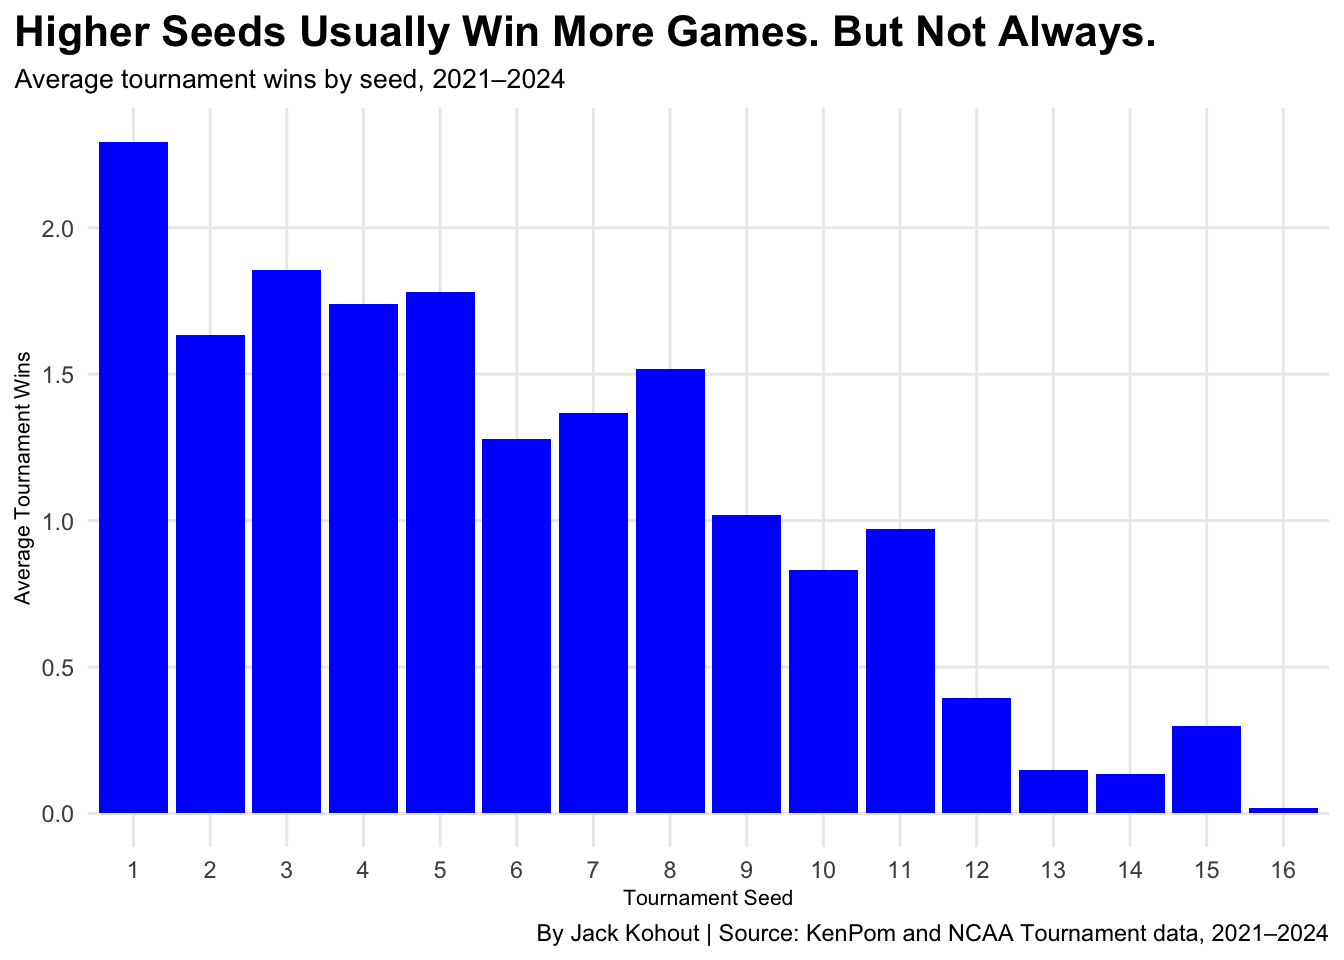
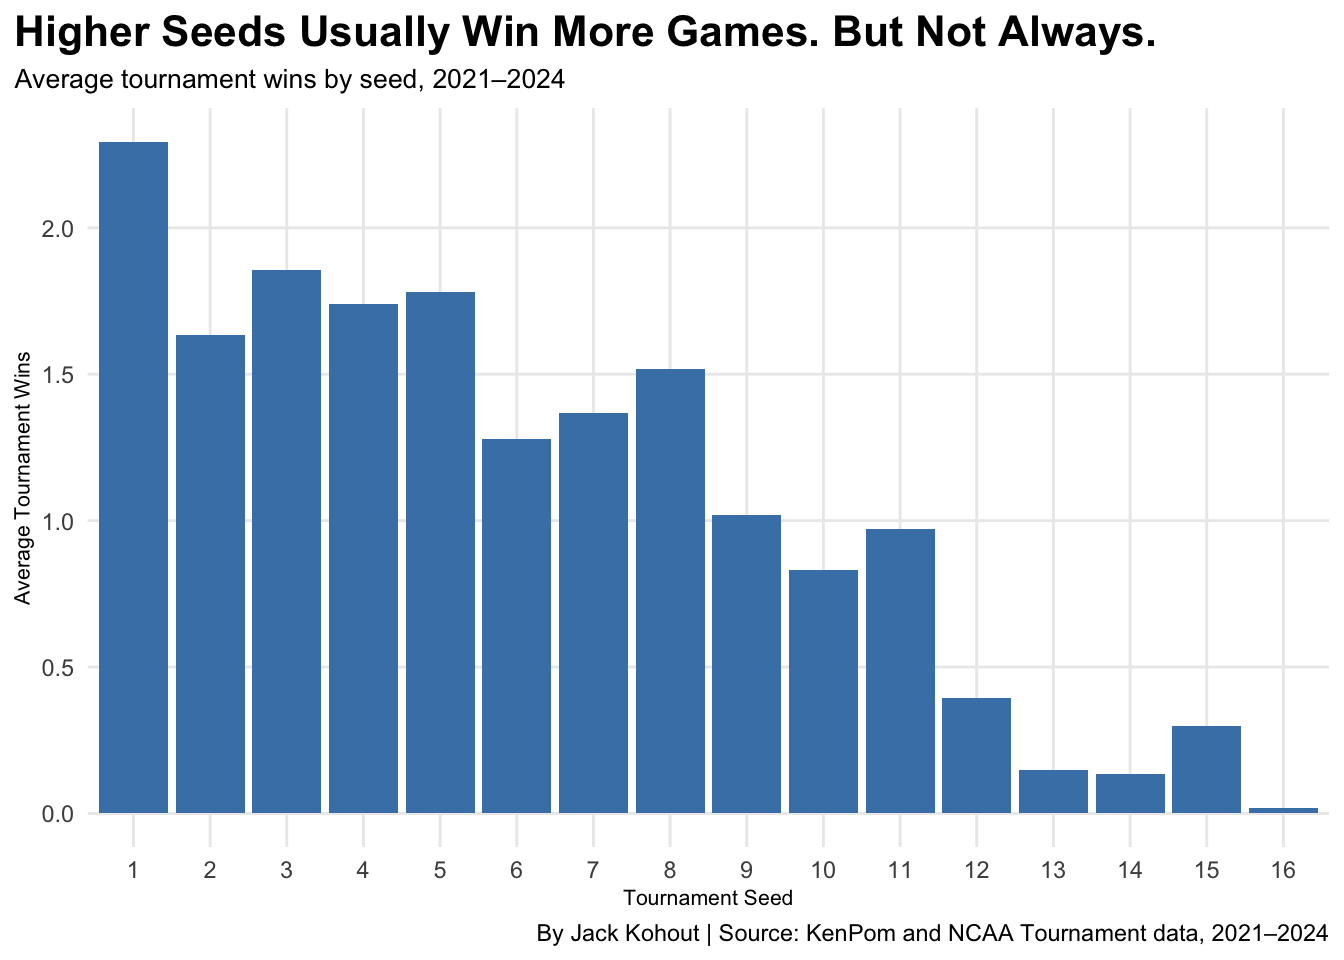
Final Change

Changed region(s): [[0.0625, 0.125, 0.9375, 0.8438]]

diff --git a/posts/NCAA-Basketball-March-Madness-Trends/index.html b/posts/NCAA-Basketball-March-Madness-Trends/index.html
@@ -269,23 +269,23 @@ pre > code.sourceCode > span > a:first-child::before { text-decoration: underlin
 <span id="cb2-55"><a href="#cb2-55" aria-hidden="true" tabindex="-1"></a>  )</span></code></pre></div><button title="Copy to Clipboard" class="code-copy-button"><i class="bi"></i></button></div>
 </details>
 <div class="cell-output-display">
-<div id="ajfexmtldr" style="padding-left:0px;padding-right:0px;padding-top:10px;padding-bottom:10px;overflow-x:auto;overflow-y:auto;width:auto;height:auto;">
-<style>#ajfexmtldr table {
+<div id="mxnhyphddv" style="padding-left:0px;padding-right:0px;padding-top:10px;padding-bottom:10px;overflow-x:auto;overflow-y:auto;width:auto;height:auto;">
+<style>#mxnhyphddv table {
   font-family: system-ui, 'Segoe UI', Roboto, Helvetica, Arial, sans-serif, 'Apple Color Emoji', 'Segoe UI Emoji', 'Segoe UI Symbol', 'Noto Color Emoji';
   -webkit-font-smoothing: antialiased;
   -moz-osx-font-smoothing: grayscale;
 }
 
-#ajfexmtldr thead, #ajfexmtldr tbody, #ajfexmtldr tfoot, #ajfexmtldr tr, #ajfexmtldr td, #ajfexmtldr th {
+#mxnhyphddv thead, #mxnhyphddv tbody, #mxnhyphddv tfoot, #mxnhyphddv tr, #mxnhyphddv td, #mxnhyphddv th {
   border-style: none;
 }
 
-#ajfexmtldr p {
+#mxnhyphddv p {
   margin: 0;
   padding: 0;
 }
 
-#ajfexmtldr .gt_table {
+#mxnhyphddv .gt_table {
   display: table;
   border-collapse: collapse;
   line-height: normal;
@@ -311,12 +311,12 @@ pre > code.sourceCode > span > a:first-child::before { text-decoration: underlin
   border-left-color: #D3D3D3;
 }
 
-#ajfexmtldr .gt_caption {
+#mxnhyphddv .gt_caption {
   padding-top: 4px;
   padding-bottom: 4px;
 }
 
-#ajfexmtldr .gt_title {
+#mxnhyphddv .gt_title {
   color: #333333;
   font-size: 125%;
   font-weight: initial;
@@ -328,7 +328,7 @@ pre > code.sourceCode > span > a:first-child::before { text-decoration: underlin
   border-bottom-width: 0;
 }
 
-#ajfexmtldr .gt_subtitle {
+#mxnhyphddv .gt_subtitle {
   color: #333333;
   font-size: 85%;
   font-weight: initial;
@@ -340,7 +340,7 @@ pre > code.sourceCode > span > a:first-child::before { text-decoration: underlin
   border-top-width: 0;
 }
 
-#ajfexmtldr .gt_heading {
+#mxnhyphddv .gt_heading {
   background-color: #FFFFFF;
   text-align: center;
   border-bottom-color: #FFFFFF;
@@ -352,13 +352,13 @@ pre > code.sourceCode > span > a:first-child::before { text-decoration: underlin
   border-right-color: #D3D3D3;
 }
 
-#ajfexmtldr .gt_bottom_border {
+#mxnhyphddv .gt_bottom_border {
   border-bottom-style: none;
   border-bottom-width: 2px;
   border-bottom-color: #D3D3D3;
 }
 
-#ajfexmtldr .gt_col_headings {
+#mxnhyphddv .gt_col_headings {
   border-top-style: none;
   border-top-width: 2px;
   border-top-color: #D3D3D3;
@@ -373,7 +373,7 @@ pre > code.sourceCode > span > a:first-child::before { text-decoration: underlin
   border-right-color: #D3D3D3;
 }
 
-#ajfexmtldr .gt_col_heading {
+#mxnhyphddv .gt_col_heading {
   color: #333333;
   background-color: #FFFFFF;
   font-size: 100%;
@@ -393,7 +393,7 @@ pre > code.sourceCode > span > a:first-child::before { text-decoration: underlin
   overflow-x: hidden;
 }
 
-#ajfexmtldr .gt_column_spanner_outer {
+#mxnhyphddv .gt_column_spanner_outer {
   color: #333333;
   background-color: #FFFFFF;
   font-size: 100%;
@@ -405,15 +405,15 @@ pre > code.sourceCode > span > a:first-child::before { text-decoration: underlin
   padding-right: 4px;
 }
 
-#ajfexmtldr .gt_column_spanner_outer:first-child {
+#mxnhyphddv .gt_column_spanner_outer:first-child {
   padding-left: 0;
 }
 
-#ajfexmtldr .gt_column_spanner_outer:last-child {
+#mxnhyphddv .gt_column_spanner_outer:last-child {
   padding-right: 0;
 }
 
-#ajfexmtldr .gt_column_spanner {
+#mxnhyphddv .gt_column_spanner {
   border-bottom-style: none;
   border-bottom-width: 2px;
   border-bottom-color: #D3D3D3;
@@ -425,11 +425,11 @@ pre > code.sourceCode > span > a:first-child::before { text-decoration: underlin
   width: 100%;
 }
 
-#ajfexmtldr .gt_spanner_row {
+#mxnhyphddv .gt_spanner_row {
   border-bottom-style: hidden;
 }
 
-#ajfexmtldr .gt_group_heading {
+#mxnhyphddv .gt_group_heading {
   padding-top: 8px;
   padding-bottom: 8px;
   padding-left: 5px;
@@ -455,7 +455,7 @@ pre > code.sourceCode > span > a:first-child::before { text-decoration: underlin
   text-align: left;
 }
 
-#ajfexmtldr .gt_empty_group_heading {
+#mxnhyphddv .gt_empty_group_heading {
   padding: 0.5px;
   color: #333333;
   background-color: #FFFFFF;
@@ -470,15 +470,15 @@ pre > code.sourceCode > span > a:first-child::before { text-decoration: underlin
   vertical-align: middle;
 }
 
-#ajfexmtldr .gt_from_md > :first-child {
+#mxnhyphddv .gt_from_md > :first-child {
   margin-top: 0;
 }
 
-#ajfexmtldr .gt_from_md > :last-child {
+#mxnhyphddv .gt_from_md > :last-child {
   margin-bottom: 0;
 }
 
-#ajfexmtldr .gt_row {
+#mxnhyphddv .gt_row {
   padding-top: 8px;
   padding-bottom: 8px;
   padding-left: 5px;
@@ -497,7 +497,7 @@ pre > code.sourceCode > span > a:first-child::before { text-decoration: underlin
   overflow-x: hidden;
 }
 
-#ajfexmtldr .gt_stub {
+#mxnhyphddv .gt_stub {
   color: #333333;
   background-color: #FFFFFF;
   font-size: 100%;
@@ -510,7 +510,7 @@ pre > code.sourceCode > span > a:first-child::before { text-decoration: underlin
   padding-right: 5px;
 }
 
-#ajfexmtldr .gt_stub_row_group {
+#mxnhyphddv .gt_stub_row_group {
   color: #333333;
   background-color: #FFFFFF;
   font-size: 100%;
@@ -524,15 +524,15 @@ pre > code.sourceCode > span > a:first-child::before { text-decoration: underlin
   vertical-align: top;
 }
 
-#ajfexmtldr .gt_row_group_first td {
+#mxnhyphddv .gt_row_group_first td {
   border-top-width: 2px;
 }
 
-#ajfexmtldr .gt_row_group_first th {
+#mxnhyphddv .gt_row_group_first th {
   border-top-width: 2px;
 }
 
-#ajfexmtldr .gt_summary_row {
+#mxnhyphddv .gt_summary_row {
   color: #333333;
   background-color: #FFFFFF;
   text-transform: inherit;
@@ -542,16 +542,16 @@ pre > code.sourceCode > span > a:first-child::before { text-decoration: underlin
   padding-right: 5px;
 }
 
-#ajfexmtldr .gt_first_summary_row {
+#mxnhyphddv .gt_first_summary_row {
   border-top-style: none;
   border-top-color: #D3D3D3;
 }
 
-#ajfexmtldr .gt_first_summary_row.thick {
+#mxnhyphddv .gt_first_summary_row.thick {
   border-top-width: 2px;
 }
 
-#ajfexmtldr .gt_last_summary_row {
+#mxnhyphddv .gt_last_summary_row {
   padding-top: 8px;
   padding-bottom: 8px;
   padding-left: 5px;
@@ -561,7 +561,7 @@ pre > code.sourceCode > span > a:first-child::before { text-decoration: underlin
   border-bottom-color: #D3D3D3;
 }
 
-#ajfexmtldr .gt_grand_summary_row {
+#mxnhyphddv .gt_grand_summary_row {
   color: #333333;
   background-color: #FFFFFF;
   text-transform: inherit;
@@ -571,7 +571,7 @@ pre > code.sourceCode > span > a:first-child::before { text-decoration: underlin
   padding-right: 5px;
 }
 
-#ajfexmtldr .gt_first_grand_summary_row {
+#mxnhyphddv .gt_first_grand_summary_row {
   padding-top: 8px;
   padding-bottom: 8px;
   padding-left: 5px;
@@ -581,7 +581,7 @@ pre > code.sourceCode > span > a:first-child::before { text-decoration: underlin
   border-top-color: #D3D3D3;
 }
 
-#ajfexmtldr .gt_last_grand_summary_row_top {
+#mxnhyphddv .gt_last_grand_summary_row_top {
   padding-top: 8px;
   padding-bottom: 8px;
   padding-left: 5px;
@@ -591,11 +591,11 @@ pre > code.sourceCode > span > a:first-child::before { text-decoration: underlin
   border-bottom-color: #D3D3D3;
 }
 
-#ajfexmtldr .gt_striped {
+#mxnhyphddv .gt_striped {
   background-color: rgba(128, 128, 128, 0.05);
 }
 
-#ajfexmtldr .gt_table_body {
+#mxnhyphddv .gt_table_body {
   border-top-style: none;
   border-top-width: 2px;
   border-top-color: #D3D3D3;
@@ -604,7 +604,7 @@ pre > code.sourceCode > span > a:first-child::before { text-decoration: underlin
   border-bottom-color: #D3D3D3;
 }
 
-#ajfexmtldr .gt_footnotes {
+#mxnhyphddv .gt_footnotes {
   color: #333333;
   background-color: #FFFFFF;
   border-bottom-style: none;
@@ -618,7 +618,7 @@ pre > code.sourceCode > span > a:first-child::before { text-decoration: underlin
   border-right-color: #D3D3D3;
 }
 
-#ajfexmtldr .gt_footnote {
+#mxnhyphddv .gt_footnote {
   margin: 0px;
   font-size: 90%;
   padding-top: 4px;
@@ -627,7 +627,7 @@ pre > code.sourceCode > span > a:first-child::before { text-decoration: underlin
   padding-right: 5px;
 }
 
-#ajfexmtldr .gt_sourcenotes {
+#mxnhyphddv .gt_sourcenotes {
   color: #333333;
   background-color: #FFFFFF;
   border-bottom-style: none;
@@ -641,7 +641,7 @@ pre > code.sourceCode > span > a:first-child::before { text-decoration: underlin
   border-right-color: #D3D3D3;
 }
 
-#ajfexmtldr .gt_sourcenote {
+#mxnhyphddv .gt_sourcenote {
   font-size: 90%;
   padding-top: 4px;
   padding-bottom: 4px;
@@ -649,72 +649,72 @@ pre > code.sourceCode > span > a:first-child::before { text-decoration: underlin
   padding-right: 5px;
 }
 
-#ajfexmtldr .gt_left {
+#mxnhyphddv .gt_left {
   text-align: left;
 }
 
-#ajfexmtldr .gt_center {
+#mxnhyphddv .gt_center {
   text-align: center;
 }
 
-#ajfexmtldr .gt_right {
+#mxnhyphddv .gt_right {
   text-align: right;
   font-variant-numeric: tabular-nums;
 }
 
-#ajfexmtldr .gt_font_normal {
+#mxnhyphddv .gt_font_normal {
   font-weight: normal;
 }
 
-#ajfexmtldr .gt_font_bold {
+#mxnhyphddv .gt_font_bold {
   font-weight: bold;
 }
 
-#ajfexmtldr .gt_font_italic {
+#mxnhyphddv .gt_font_italic {
   font-style: italic;
 }
 
-#ajfexmtldr .gt_super {
+#mxnhyphddv .gt_super {
   font-size: 65%;
 }
 
-#ajfexmtldr .gt_footnote_marks {
+#mxnhyphddv .gt_footnote_marks {
   font-size: 75%;
   vertical-align: 0.4em;
   position: initial;
 }
 
-#ajfexmtldr .gt_asterisk {
+#mxnhyphddv .gt_asterisk {
   font-size: 100%;
   vertical-align: 0;
 }
 
-#ajfexmtldr .gt_indent_1 {
+#mxnhyphddv .gt_indent_1 {
   text-indent: 5px;
 }
 
-#ajfexmtldr .gt_indent_2 {
+#mxnhyphddv .gt_indent_2 {
   text-indent: 10px;
 }
 
-#ajfexmtldr .gt_indent_3 {
+#mxnhyphddv .gt_indent_3 {
   text-indent: 15px;
 }
 
-#ajfexmtldr .gt_indent_4 {
+#mxnhyphddv .gt_indent_4 {
   text-indent: 20px;
 }
 
-#ajfexmtldr .gt_indent_5 {
+#mxnhyphddv .gt_indent_5 {
   text-indent: 25px;
 }
 
-#ajfexmtldr .katex-display {
+#mxnhyphddv .katex-display {
   display: inline-flex !important;
   margin-bottom: 0.75em !important;
 }
 
-#ajfexmtldr div.Reactable > div.rt-table > div.rt-thead > div.rt-tr.rt-tr-group-header > div.rt-th-group:after {
+#mxnhyphddv div.Reactable > div.rt-table > div.rt-thead > div.rt-tr.rt-tr-group-header > div.rt-th-group:after {
   height: 0px !important;
 }
 </style>
@@ -836,7 +836,7 @@ pre > code.sourceCode > span > a:first-child::before { text-decoration: underlin
 <span id="cb3-4"><a href="#cb3-4" aria-hidden="true" tabindex="-1"></a>  <span class="fu">summarise</span>(<span class="at">avg_wins =</span> <span class="fu">mean</span>(tournament_wins))</span>
 <span id="cb3-5"><a href="#cb3-5" aria-hidden="true" tabindex="-1"></a></span>
 <span id="cb3-6"><a href="#cb3-6" aria-hidden="true" tabindex="-1"></a><span class="fu">ggplot</span>(seed_avg, <span class="fu">aes</span>(<span class="at">x =</span> <span class="fu">factor</span>(seed), <span class="at">y =</span> avg_wins)) <span class="sc">+</span></span>
-<span id="cb3-7"><a href="#cb3-7" aria-hidden="true" tabindex="-1"></a>  <span class="fu">geom_col</span>(<span class="at">fill =</span> <span class="st">"Blue"</span>) <span class="sc">+</span></span>
+<span id="cb3-7"><a href="#cb3-7" aria-hidden="true" tabindex="-1"></a>  <span class="fu">geom_col</span>(<span class="at">fill =</span> <span class="st">"Steelblue"</span>) <span class="sc">+</span></span>
 <span id="cb3-8"><a href="#cb3-8" aria-hidden="true" tabindex="-1"></a>  <span class="fu">labs</span>(</span>
 <span id="cb3-9"><a href="#cb3-9" aria-hidden="true" tabindex="-1"></a>    <span class="at">title =</span> <span class="st">"Higher Seeds Usually Win More Games. But Not Always."</span>,</span>
 <span id="cb3-10"><a href="#cb3-10" aria-hidden="true" tabindex="-1"></a>    <span class="at">subtitle =</span> <span class="st">"Average tournament wins by seed, 2021–2024"</span>,</span>

diff --git a/index.html b/index.html
@@ -210,7 +210,7 @@ window.Quarto = {
 
 <div class="quarto-listing quarto-listing-container-default" id="listing-listing">
 <div class="list quarto-listing-default">
-<div class="quarto-post image-right" data-index="0" data-categories="TkNBQSUyQ0Jhc2tldGJhbGwlMkNNYXJjaC1NYWRuZXNz" data-listing-date-sort="1775797200000" data-listing-file-modified-sort="1775848129096" data-listing-date-modified-sort="NaN" data-listing-reading-time-sort="6" data-listing-word-count-sort="1054">
+<div class="quarto-post image-right" data-index="0" data-categories="TkNBQSUyQ0Jhc2tldGJhbGwlMkNNYXJjaC1NYWRuZXNz" data-listing-date-sort="1775797200000" data-listing-file-modified-sort="1775848216666" data-listing-date-modified-sort="NaN" data-listing-reading-time-sort="6" data-listing-word-count-sort="1054">
 <div class="thumbnail"><a href="./posts/NCAA-Basketball-March-Madness-Trends/index.html" class="no-external">
 
 <img loading="lazy" src="./posts/NCAA-Basketball-March-Madness-Trends/image.png" class="thumbnail-image">
